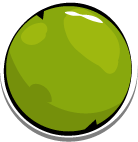
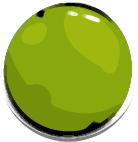
Major Update - Added SpikeWheel

diff --git a/dpt/ressources/dpt/entities/SpikeyWheel.entity.py b/dpt/ressources/dpt/entities/SpikeyWheel.entity.py
@@ -1,0 +1,35 @@
+import pygame
+from dpt.engine.loader import RessourceLoader
+from dpt.game import Game
+
+
+class SpikeyWheel(pygame.sprite.Sprite):
+    texture = "dpt.images.environment.traps.SpikeyWheel"
+    width = height = Game.TILESIZE
+    offset_x = -(Game.TILESIZE // 2)
+    offset_y = -(Game.TILESIZE // 2)
+    customPlacement = True
+    i = 0
+
+    def __init__(self, x, y):
+        from dpt.engine.tileManager import TileManager
+        pygame.sprite.Sprite.__init__(self, TileManager.interactible_blocks, TileManager.deadly_object_group)
+        self.image = RessourceLoader.get(self.texture)
+        self.image = pygame.transform.scale(self.image, (self.width, self.height))
+        self.rect = self.image.get_rect()
+        self.rect.x = x + self.offset_x
+        self.rect.y = y + self.offset_y
+        self.rotate = 1
+
+    def update(self):
+        if self.i == 3:
+            self.i = 0
+            self.image = RessourceLoader.get(self.texture)
+            self.image = pygame.transform.scale(self.image, (self.width, self.height))
+            self.image = pygame.transform.rotate(self.image, self.rotate)
+            if self.rotate == 360:
+                self.rotate = 0
+            self.rotate += 5
+            self.rect = self.image.get_rect(center=self.rect.center)
+        else:
+            self.i += 1
